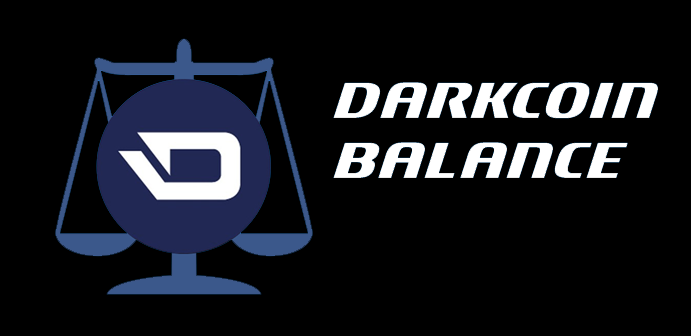
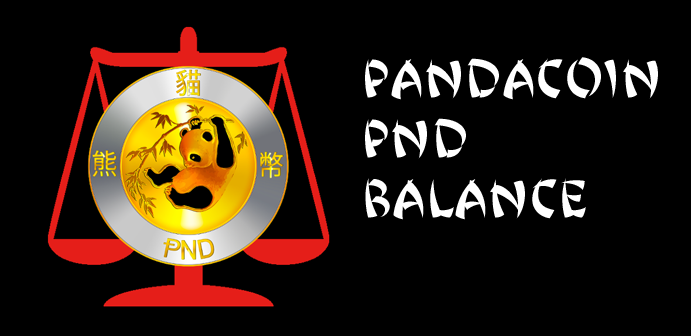
preparing for wp8 platform

diff --git a/platforms/wp8/App.xaml b/platforms/wp8/App.xaml
@@ -1,5 +1,5 @@
 <?xml version='1.0' encoding='utf-8'?>
-<Application x:Class="net.edrake.darkcoinbalance.App" xmlns="http://schemas.microsoft.com/winfx/2006/xaml/presentation" xmlns:phone="clr-namespace:Microsoft.Phone.Controls;assembly=Microsoft.Phone" xmlns:shell="clr-namespace:Microsoft.Phone.Shell;assembly=Microsoft.Phone" xmlns:x="http://schemas.microsoft.com/winfx/2006/xaml">
+<Application x:Class="net.edrake.pandacoinbalance.App" xmlns="http://schemas.microsoft.com/winfx/2006/xaml/presentation" xmlns:phone="clr-namespace:Microsoft.Phone.Controls;assembly=Microsoft.Phone" xmlns:shell="clr-namespace:Microsoft.Phone.Shell;assembly=Microsoft.Phone" xmlns:x="http://schemas.microsoft.com/winfx/2006/xaml">
     <Application.Resources>
     </Application.Resources>
     <Application.ApplicationLifetimeObjects>

diff --git a/merges/wp8/main.html b/merges/wp8/main.html
@@ -1,10 +1,8 @@
 <!DOCTYPE html>
 <html lang="en">
 <head>
-	<!-- meta tag below (theoretically) forces IE to render in standards (not quirks) mode -->
-	<meta http-equiv="X-UA-Compatible" content="IE=edge"/>
     <meta charset="utf-8">
-    <title>Darkcoin Balance</title>
+    <title>Pandacoin PND Balance</title>
     <meta name="viewport" content="width=device-width, initial-scale=1.0">
 	<link rel="icon" href="favicon.ico" type="image/x-icon" />
     <link rel="stylesheet" href="css/bootstrap.min.css"/>
@@ -31,6 +29,9 @@
 
 			<ng-view></ng-view>
 
+			<div ng-click="loadData()" class="panda-button">
+				<img src="img/pandacoin64.png" alt="Pandacoin PND" title="Pandacoin PND"/>
+			</div>
       </div>
 </div>
 

diff --git a/platforms/wp8/App.xaml.cs b/platforms/wp8/App.xaml.cs
@@ -32,7 +32,7 @@ using System.Windows.Shapes;
 using Microsoft.Phone.Controls;
 using Microsoft.Phone.Shell;
 
-namespace net.edrake.darkcoinbalance
+namespace net.edrake.pandacoinbalance
 {
     public partial class App : Application
     {
